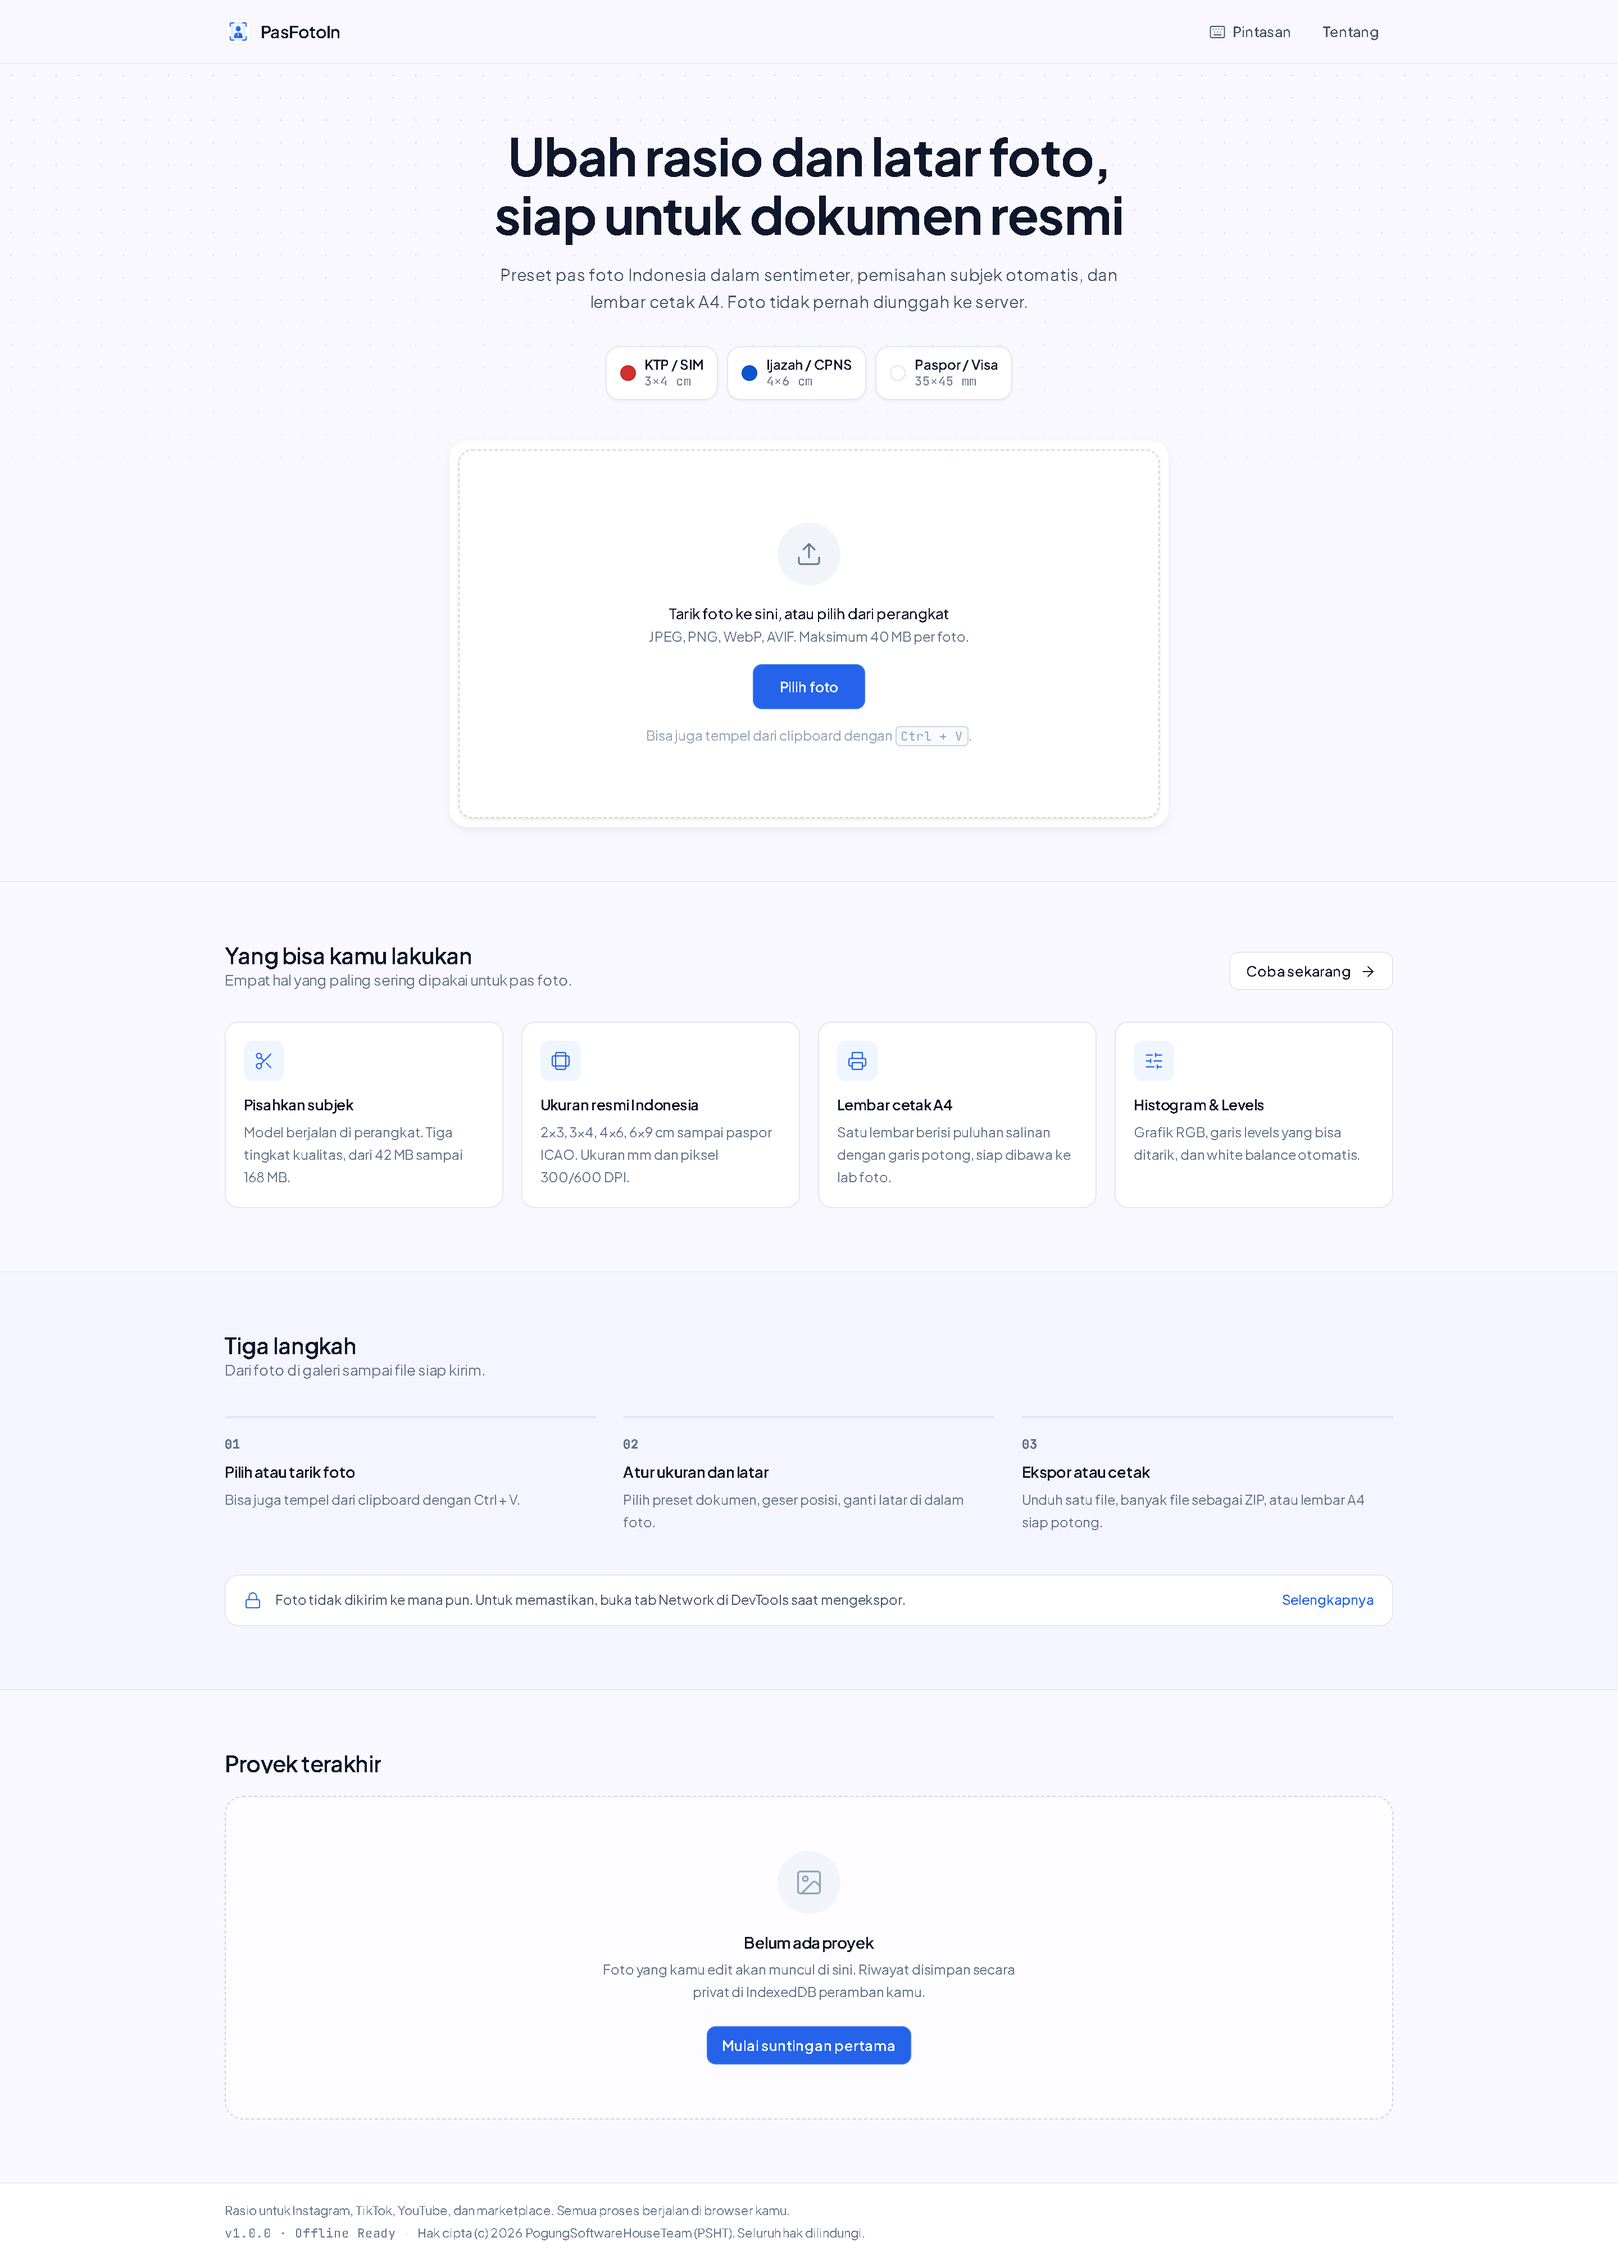
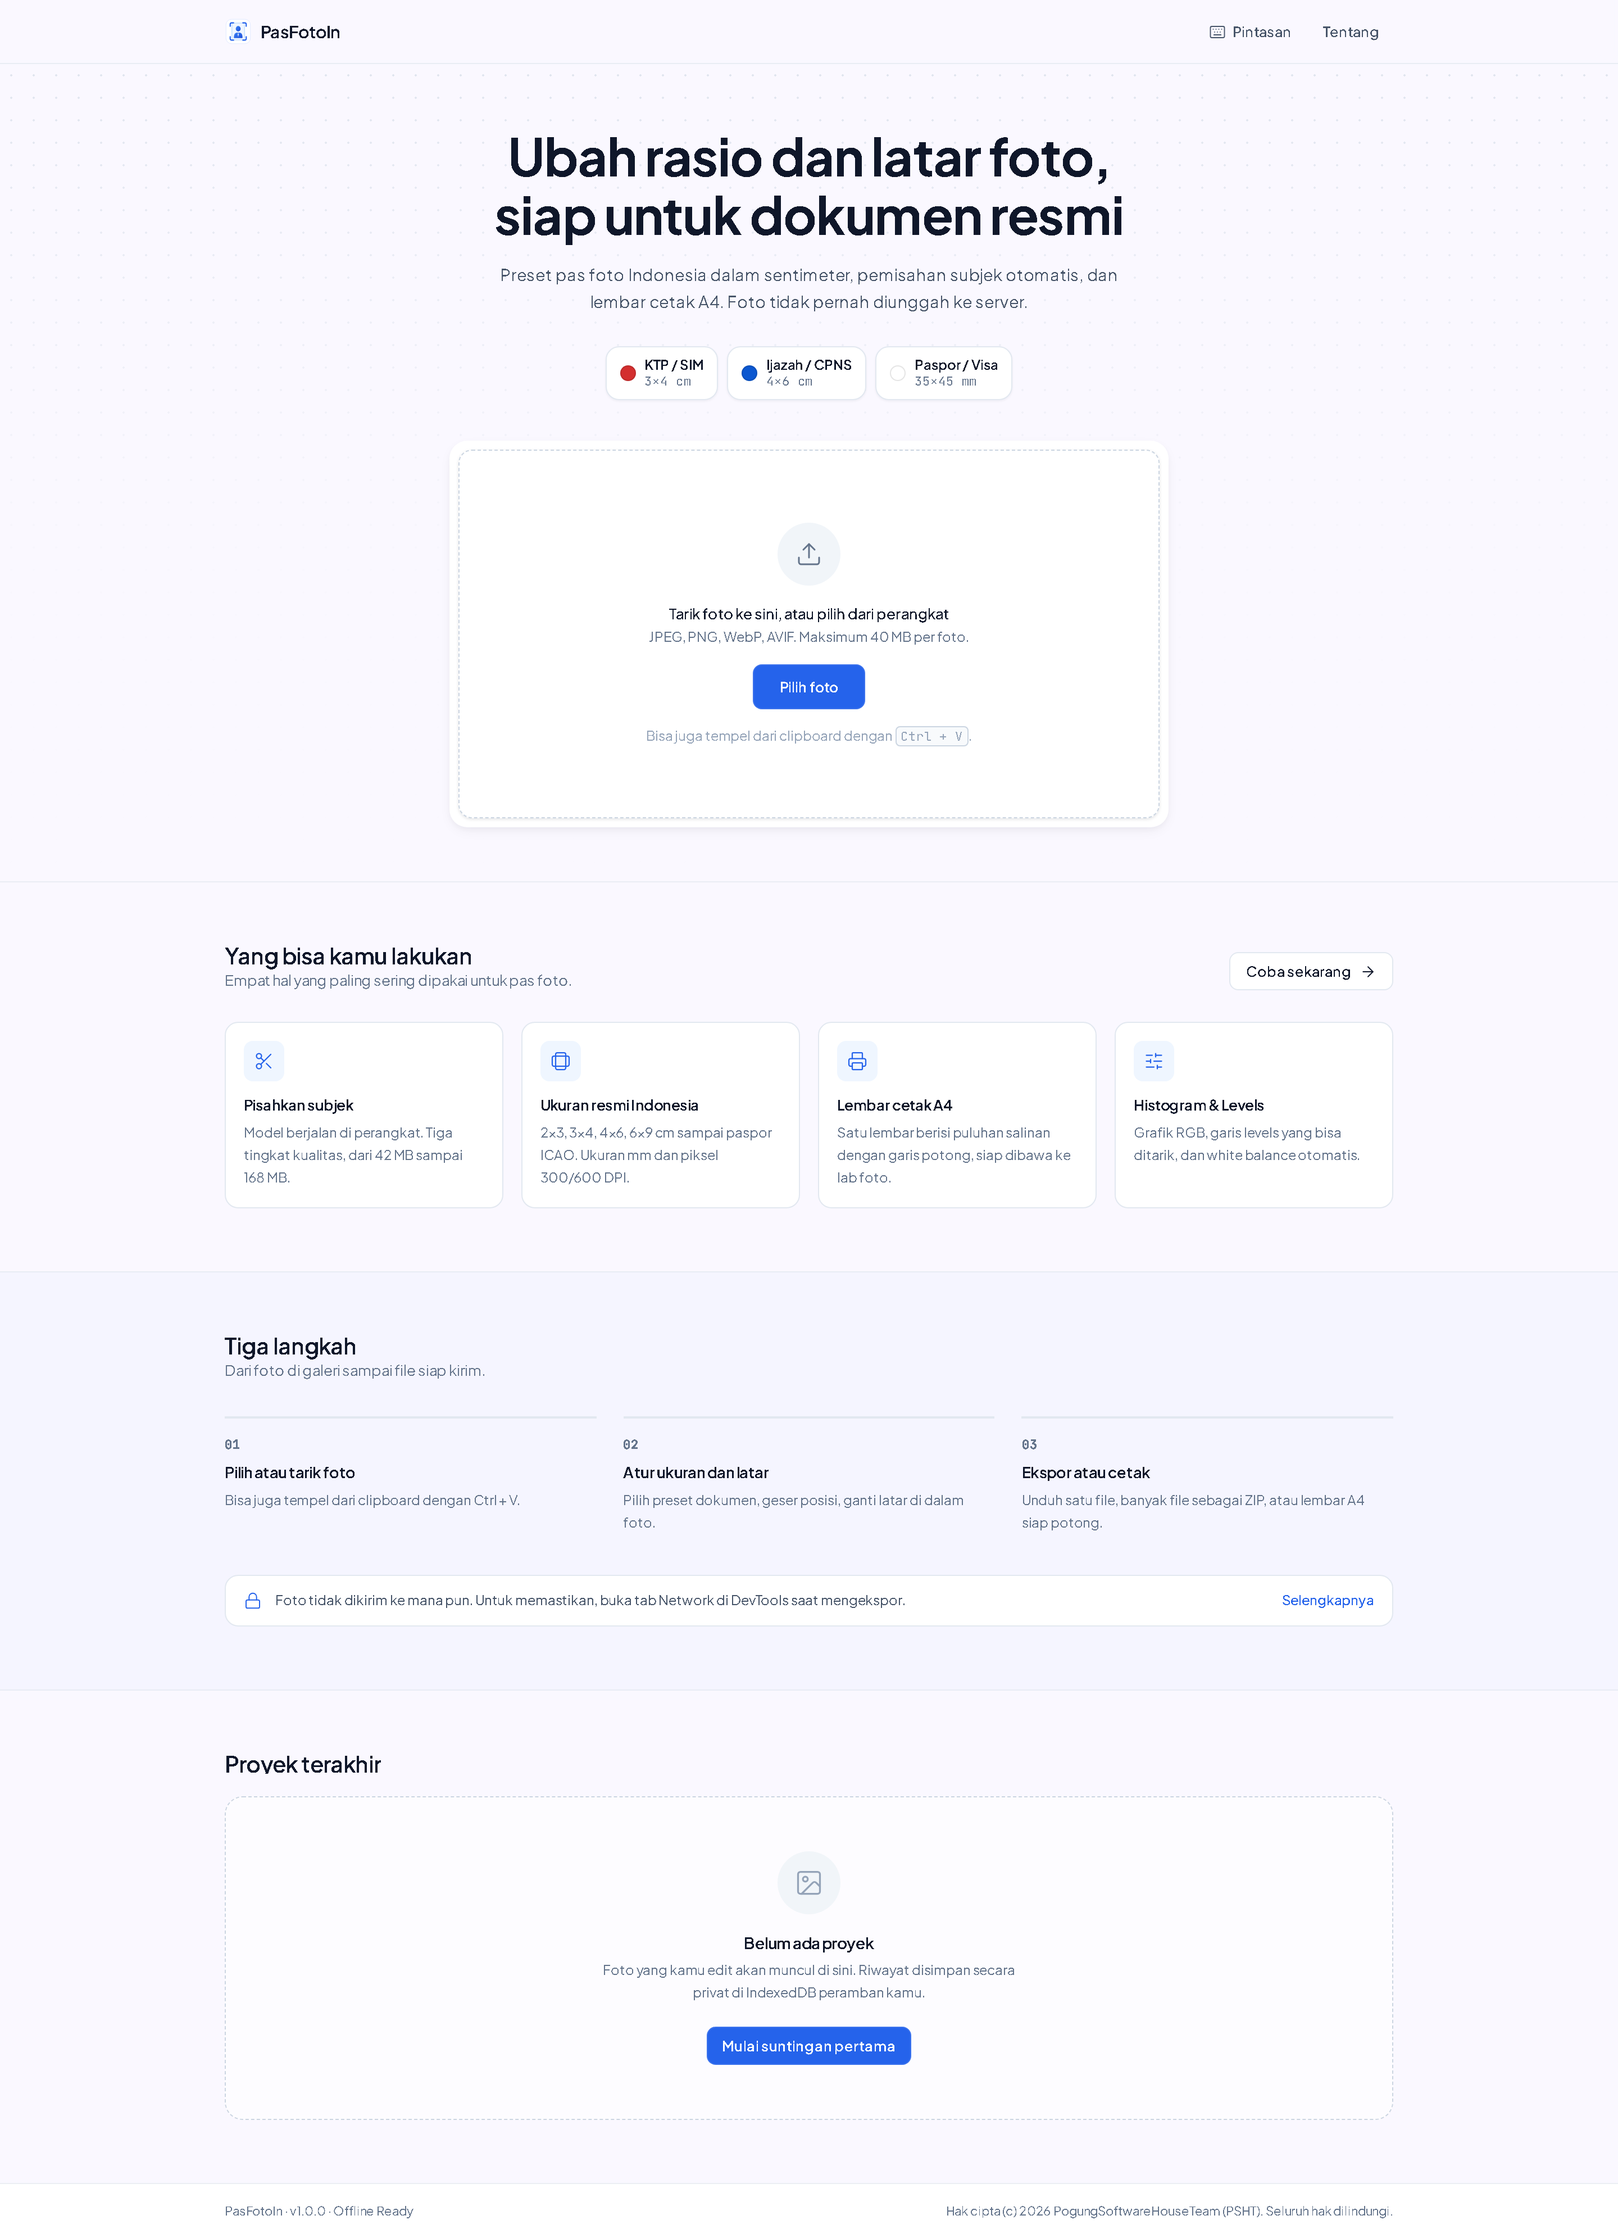
style: sederhanakan footer beranda jadi satu baris
Teks promosi dihapus. Kiri: nama aplikasi, versi, dan status offline. Kanan: baris hak cipta. Keduanya satu baris pada lebar 768 px ke atas, dan melipat tanpa overflow di layar ponsel.

diff --git a/src/app/page.tsx b/src/app/page.tsx
@@ -362,15 +362,9 @@ export default function HomePage() {
       </main>
 
       <footer className="border-t border-gray-200/70 bg-white">
-        <div className="mx-auto flex w-full max-w-[1080px] flex-wrap items-center justify-between gap-x-4 gap-y-1 px-5 py-4 text-[11px] leading-4 text-gray-500">
-          <p>Rasio untuk Instagram, TikTok, YouTube, dan marketplace. Semua proses berjalan di browser kamu.</p>
-          <p className="flex min-w-0 flex-wrap items-center gap-x-2 gap-y-1">
-            <span className="code-label whitespace-nowrap">v1.0.0 · Offline Ready</span>
-            <span aria-hidden className="text-gray-300">
-              ·
-            </span>
-            <CopyrightNotice inline />
-          </p>
+        <div className="mx-auto flex w-full max-w-[1080px] flex-wrap items-center justify-between gap-x-6 gap-y-1 px-5 py-4 text-[11px] leading-4 text-gray-500">
+          <span className="whitespace-nowrap">PasFotoIn · v1.0.0 · Offline Ready</span>
+          <CopyrightNotice inline />
         </div>
       </footer>
 
